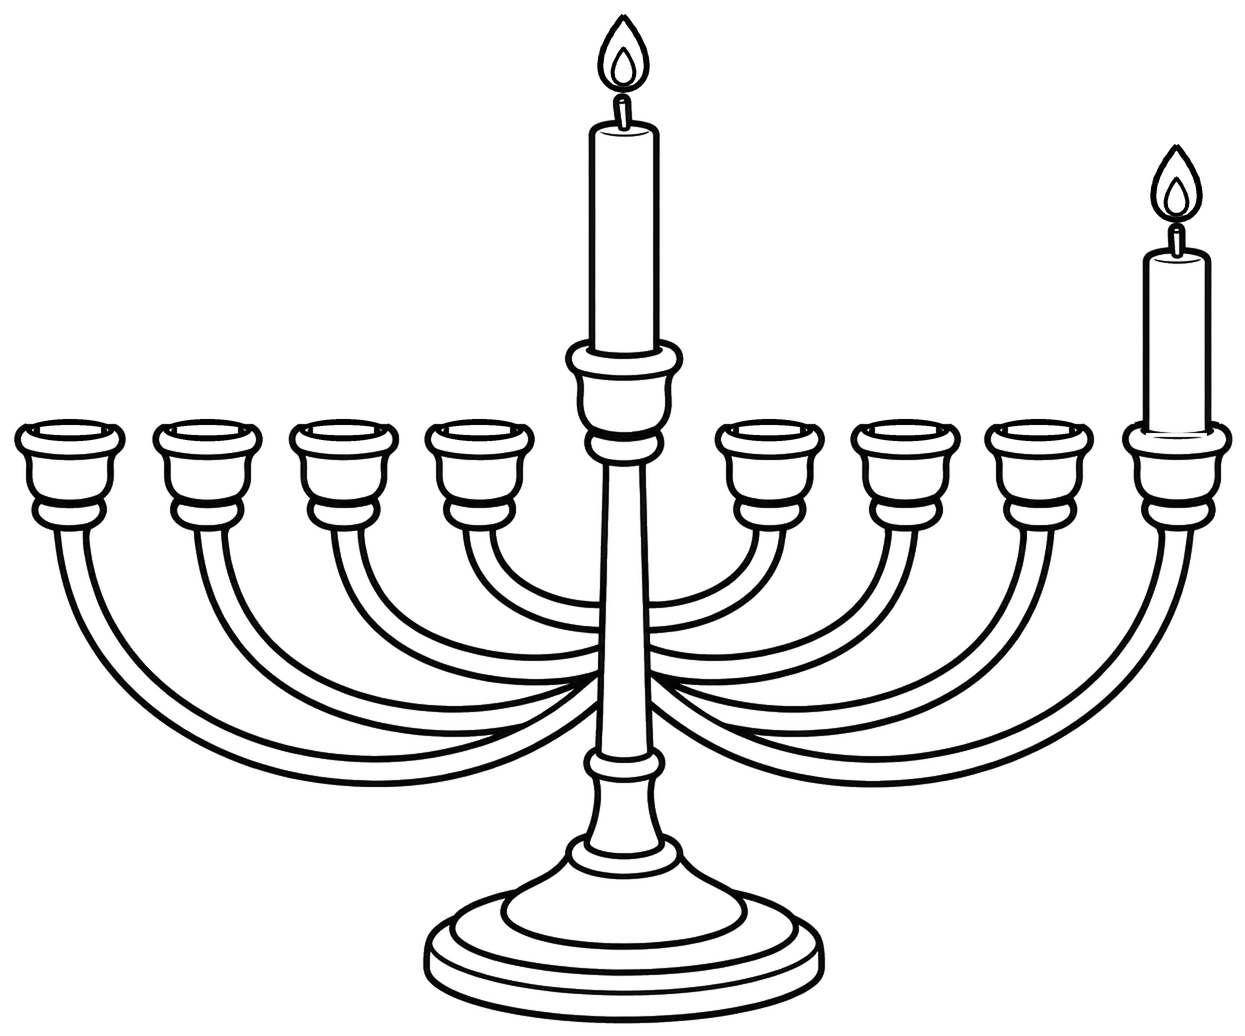
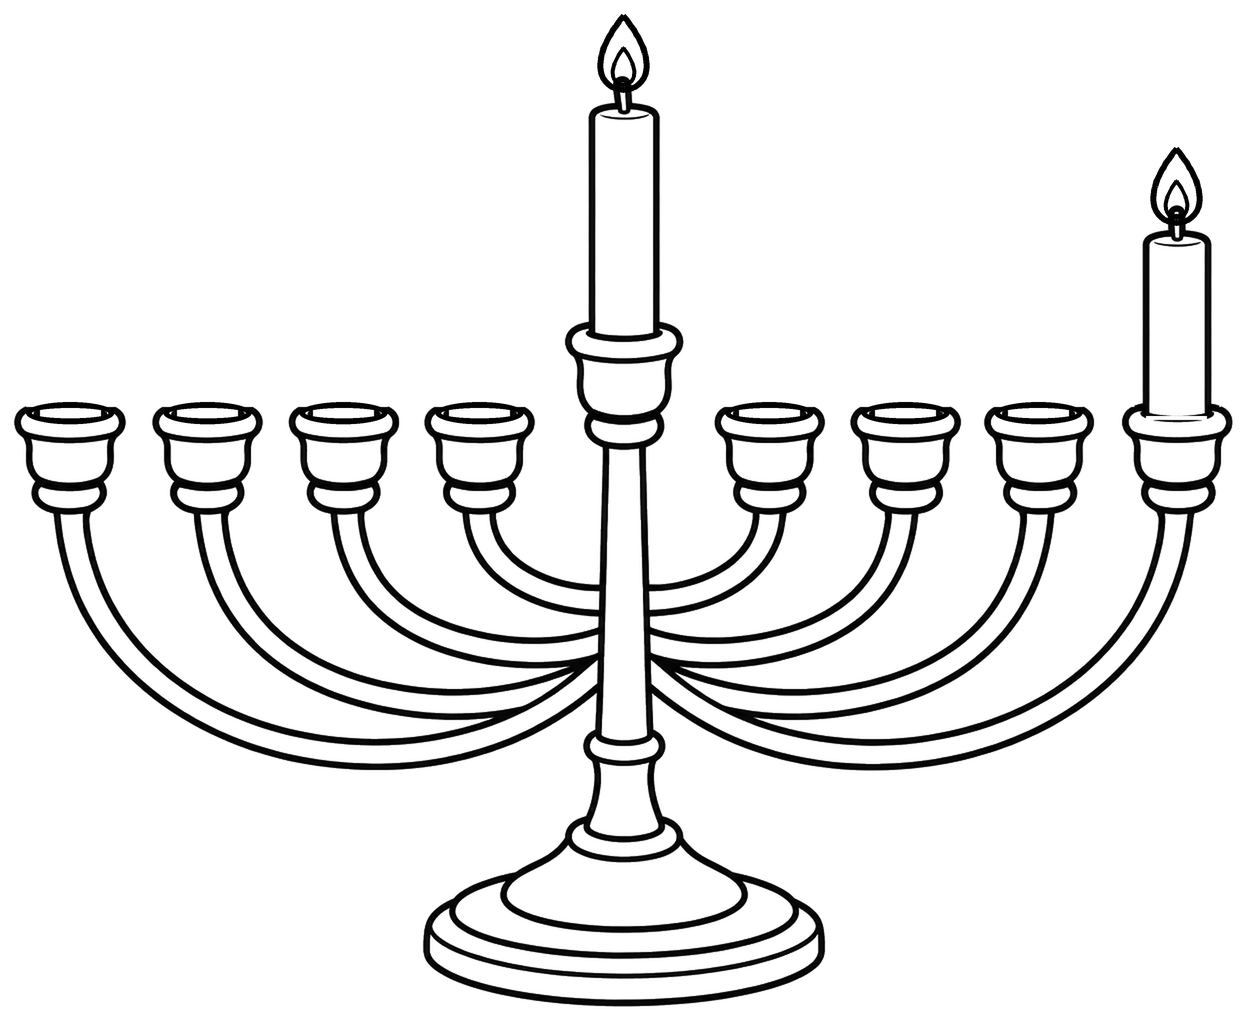
hanukkah-8-nights: chamas no pavio, Draw the Candles com novo traco, pilhas separadas

diff --git a/books/hanukkah-8-nights/legacy/scripts/hanukkiah_noites_v3.py b/books/hanukkah-8-nights/legacy/scripts/hanukkiah_noites_v3.py
@@ -8,7 +8,8 @@ gota (contorno + chama interna) desenhada por cima do pavio.
 
 Uso: python hanukkiah_noites_v3.py
 Saída (inputs/illustrations/): hk_n{0..8}.png  (n velas acesas + shamash aceso; hk_n0 = só o shamash)
-                               hk_empty.png    (copos vazios, sem shamash aceso: para "desenhe as velas")
+                               hk_empty.png    (copos vazios, shamash presente sem chama)
+                               hk_empty0.png   (todos os 9 copos vazios, inclusive o do shamash: para "desenhe as velas")
 """
 import math
 from pathlib import Path
@@ -39,8 +40,11 @@ def cup_mouth(d, cx, cy_mouth, k=SS):
     d.ellipse([(cx - 44) * k, (cy_mouth - 10) * k, (cx + 44) * k, (cy_mouth + 12) * k], outline=0, width=lw)
 
 
-def empty_base():
+def empty_base(shamash_candle=True):
     a = np.array(SRC)
+    if not shamash_candle:  # copo do shamash vazio: apaga a vela alta
+        a[40 + PAD:305 + PAD + 1, int(SH - HALF - 8):int(SH + HALF + 9)] = 255
+        a[306 + PAD:317 + PAD, int(SH - 30):int(SH + 31)] = 255
     for c in CX:
         a[CANDLE_TOP:CANDLE_CUT + 9, int(c - HALF - 8):int(c + HALF + 9)] = 255
         a[CANDLE_CUT + 1:394 + PAD, int(c - 30):int(c + 31)] = 255
@@ -64,8 +68,8 @@ def flame(d, cx, y_wick, h=74, w=46, k=SS):
     d.line([(x * k, y * k) for x, y in inner], fill=0, width=4 * k, joint="curve")
 
 
-def render(n, out, shamash_lit=True, flames=True):
-    base = empty_base()
+def render(n, out, shamash_lit=True, flames=True, shamash_candle=True):
+    base = empty_base(shamash_candle)
     a = np.array(base)
     srcA = np.array(SRC.resize((W * SS, H * SS), Image.LANCZOS))
     # shamash: sempre presente (vela alta no copo central)
@@ -81,15 +85,17 @@ def render(n, out, shamash_lit=True, flames=True):
         a[ya:yb, xa:xb] = np.minimum(a[ya:yb, xa:xb], srcA[ya:yb, xa:xb])
     img = Image.fromarray(a)
     d = ImageDraw.Draw(img)
+    if not shamash_candle:
+        cup_mouth(d, SH, 306 + PAD)
     for i, c in enumerate(CX):          # copos sem vela: boca aberta
         if i not in chosen:
             cup_mouth(d, c, 386 + PAD)
     # shamash: reaplica a vela alta e o copo original (o copo central não foi apagado)
     if flames:
         for i in chosen:
-            flame(d, CX[i], 177 + PAD)
+            flame(d, CX[i], 197 + PAD)
         if shamash_lit:
-            flame(d, SH, 47 + PAD)
+            flame(d, SH, 64 + PAD)
     img = img.resize((W, H), Image.LANCZOS)
     img.save(out, dpi=(300, 300))
 
@@ -98,12 +104,13 @@ def main():
     for n in range(0, 9):
         render(n, ILL / f"hk_n{n}.png")
     render(0, ILL / "hk_empty.png", shamash_lit=False, flames=False)
+    render(0, ILL / "hk_empty0.png", shamash_lit=False, flames=False, shamash_candle=False)
     # corta a margem branca com a MESMA caixa em todas (a n8 é a maior): alinhamento idêntico entre as figuras
     ref = np.array(Image.open(ILL / "hk_n8.png").convert("L")) < 128
     ys, xs = np.where(ref)
     pad = 14
     box = (max(0, xs.min() - pad), max(0, ys.min() - pad), min(W, xs.max() + pad), min(H, ys.max() + pad))
-    for f in [f"hk_n{n}.png" for n in range(9)] + ["hk_empty.png"]:
+    for f in [f"hk_n{n}.png" for n in range(9)] + ["hk_empty.png", "hk_empty0.png"]:
         Image.open(ILL / f).crop(box).save(ILL / f, dpi=(300, 300))
     print("[OK] hk_n0..hk_n8.png, hk_empty.png; caixa", box)
 

diff --git a/books/hanukkah-8-nights/legacy/docs/relatorio-decisoes.md b/books/hanukkah-8-nights/legacy/docs/relatorio-decisoes.md
@@ -322,3 +322,6 @@ Pedido do Danilo (p32 e p36: velas toscas). `hk_n0..8.png` e `hk_empty.png` gera
 
 ## 71. Contas mais difíceis (08/10/2026)
 Pedido do Danilo (p45, 57, 59, 63: fácil demais). N5 Gelt Math ★★ (agora multiplicação, divisão por 6, fração de um quarto, metade de 170): 42, 12, 63, 85. N7 Count the Gelt ★ (grupos em fileiras de 10: 17 e 26, soma 43). N7 Which Pile Has More? ★ (pilhas de 8 a 19 moedas em fileiras de 5; escreve cada contagem e a diferença: 14x9, 8x13, 17x11, 12x19). N7 Split and Save ★★ (48/4=12, (85-25)/4=15, 96/6=16, (38+46)/2/3=14). Todas as contas conferidas por código; respostas só no answer key (`extra_n5_v3.json`, `extra_n7_v3.json`).
+
+## 72. Ajustes após conferência do Danilo (08/10/2026)
+Chamas das hanukkiahs encostadas no pavio (p32 e p36). "Draw the Candles" (p33) refeita com a hanukkiah de copos vazios (`hk_empty0.png`, inclusive o copo do shamash) e agora pede só as Noites 3 e 6 (duas figuras grandes, em vez de três pequenas demais para a criança desenhar). "Which Pile Has More?" (p59): cada pilha numa caixinha própria, com espaço entre as duas.
